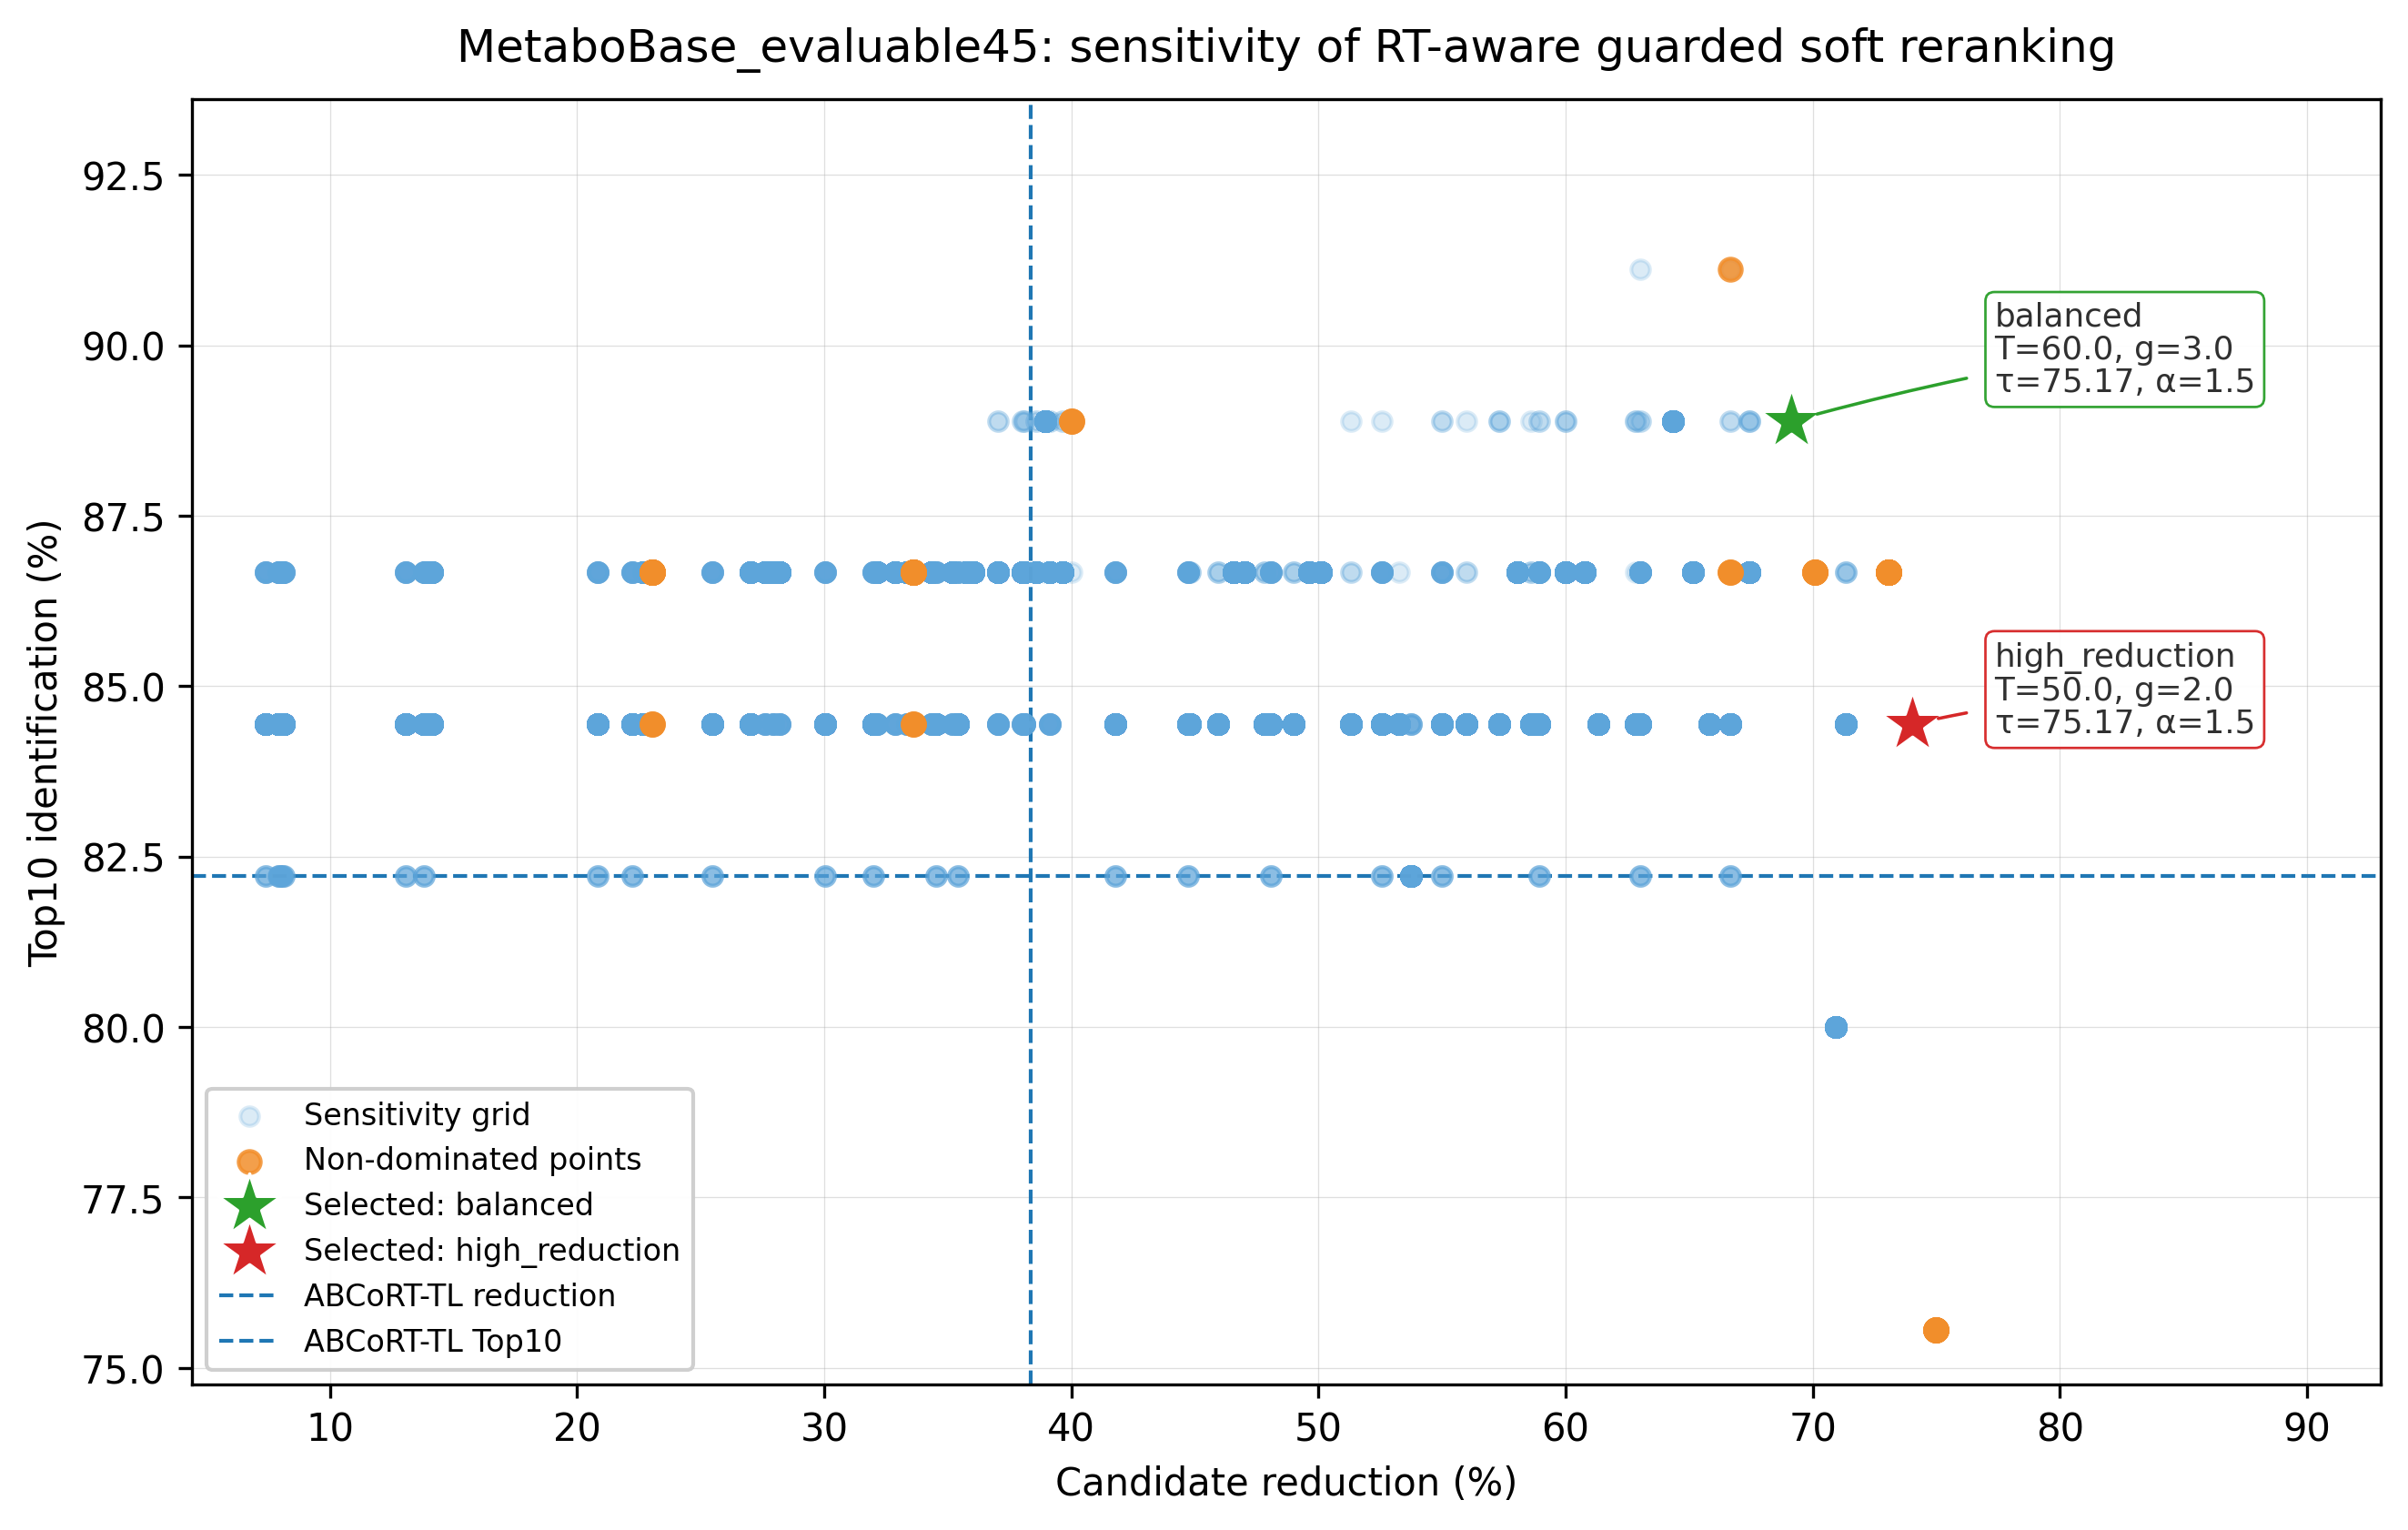
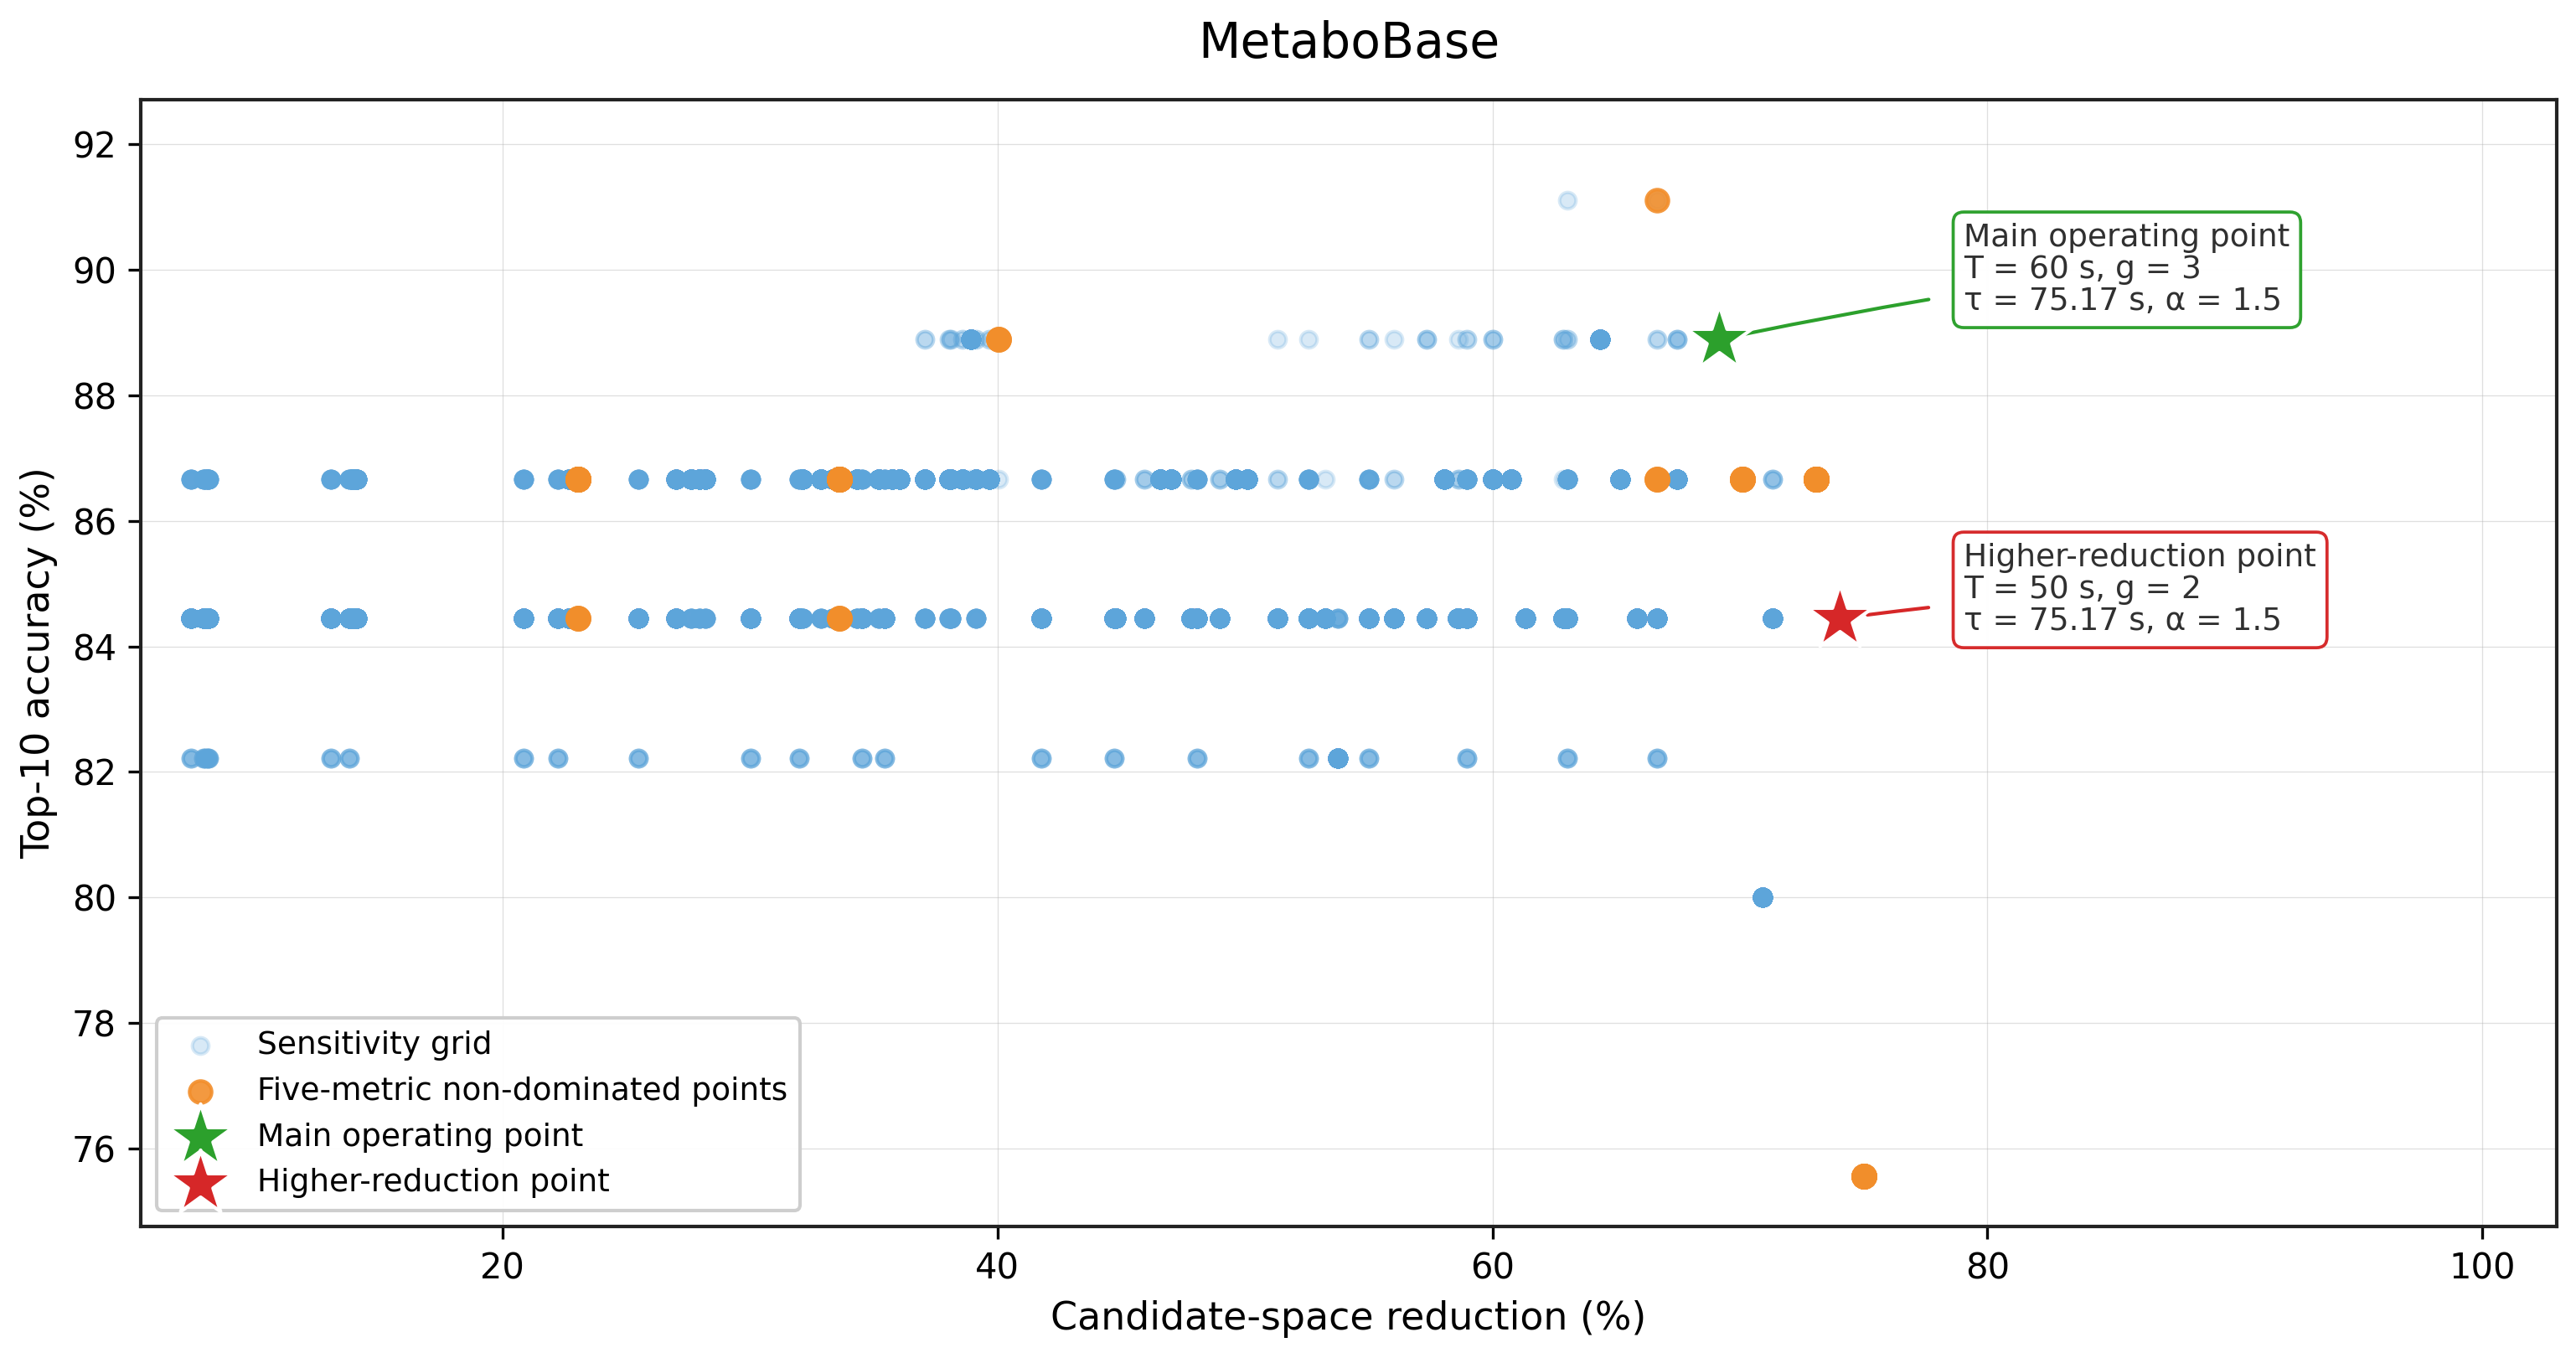
version22

diff --git a/diagnostics/make_filtering_parameter_sensitivity_audit.py b/diagnostics/make_filtering_parameter_sensitivity_audit.py
@@ -222,14 +222,55 @@ def make_tradeoff_rows(dataset_name, grid):
 
 def plot_tradeoff(dataset_name, grid, selected, abcort, out_dir):
     """
-    Plot candidate reduction versus Top-10 identification.
+    Publication-ready Figure S7 panel.
 
-    A dedicated empty annotation band is reserved on the right side of
-    the axes. Selected-point labels are placed in this band so that they
-    do not cover sensitivity-grid points, overlap each other, or extend
-    outside the figure boundary.
+    The x-axis is extended to create a dedicated annotation region inside
+    the black axes frame. Selected-point labels therefore do not cover the
+    stars or sensitivity-grid points and do not extend beyond the axes.
     """
-    fig, ax = plt.subplots(figsize=(8.9, 5.7))
+
+    title_map = {
+        "MetaboBase_evaluable45": "MetaboBase",
+        "RIKEN_exact85": "RIKEN-PlaSMA",
+        "MetaboBase": "MetaboBase",
+        "RIKEN-PlaSMA": "RIKEN-PlaSMA",
+    }
+
+    point_meta = {
+        "balanced": {
+            "legend": "Main operating point",
+            "label": "Main operating point",
+            "color": "#2CA02C",
+        },
+        "high_reduction": {
+            "legend": "Higher-reduction point",
+            "label": "Higher-reduction point",
+            "color": "#D62728",
+        },
+    }
+
+    # Vertical positions for annotation boxes.
+    label_y_map = {
+        "MetaboBase_evaluable45": {
+            "balanced": 90.0,
+            "high_reduction": 84.9,
+        },
+        "MetaboBase": {
+            "balanced": 90.0,
+            "high_reduction": 84.9,
+        },
+        "RIKEN_exact85": {
+            "balanced": 89.7,
+            "high_reduction": 87.3,
+        },
+        "RIKEN-PlaSMA": {
+            "balanced": 89.7,
+            "high_reduction": 87.3,
+        },
+    }
+
+    # Wider canvas so the enlarged black axes frame remains readable.
+    fig, ax = plt.subplots(figsize=(10.8, 5.9))
 
     # ------------------------------------------------------------
     # Sensitivity grid
@@ -237,26 +278,27 @@ def plot_tradeoff(dataset_name, grid, selected, abcort, out_dir):
     ax.scatter(
         grid["candidate_reduction_pct"],
         grid["top10_after_pct"],
-        s=24,
-        alpha=0.22,
+        s=22,
+        alpha=0.24,
         color="#5DA5DA",
         label="Sensitivity grid",
         zorder=2,
     )
 
+    # Five-metric non-dominated set
     pareto = grid[grid["is_pareto_5metric"]].copy()
     ax.scatter(
         pareto["candidate_reduction_pct"],
         pareto["top10_after_pct"],
-        s=34,
-        alpha=0.85,
+        s=40,
+        alpha=0.90,
         color="#F28E2B",
-        label="Non-dominated points",
+        label="Five-metric non-dominated points",
         zorder=3,
     )
 
     # ------------------------------------------------------------
-    # Data ranges and dedicated right-side annotation band
+    # Enlarge the black axes frame itself
     # ------------------------------------------------------------
     x_min = float(grid["candidate_reduction_pct"].min())
     x_max = float(grid["candidate_reduction_pct"].max())
@@ -265,37 +307,23 @@ def plot_tradeoff(dataset_name, grid, selected, abcort, out_dir):
 
     x_span = max(x_max - x_min, 1.0)
 
-    left_pad = max(3.0, 0.04 * x_span)
-    right_band = max(18.0, 0.25 * x_span)
+    left_pad = max(2.0, 0.03 * x_span)
 
-    ax.set_xlim(x_min - left_pad, x_max + right_band)
-    ax.set_ylim(y_min - 0.8, y_max + 2.5)
+    # Large dedicated annotation band inside the axes.
+    annotation_band = max(28.0, 0.38 * x_span)
 
-    # The labels begin strictly to the right of every sensitivity point.
-    label_x = x_max + max(2.2, 0.035 * x_span)
+    ax.set_xlim(
+        x_min - left_pad,
+        x_max + annotation_band,
+    )
 
-    # Vertical placement is dataset-specific to avoid label overlap.
-    label_y_offsets = {
-        "MetaboBase_evaluable45": {
-            "balanced": 1.05,
-            "high_reduction": 0.50,
-        },
-        "RIKEN_exact85": {
-            "balanced": 0.65,
-            "high_reduction": 0.45,
-        },
-    }
+    ax.set_ylim(
+        y_min - 0.8,
+        y_max + 1.6,
+    )
 
-    selected_styles = {
-        "balanced": {
-            "color": "#2CA02C",
-            "legend": "Selected: balanced",
-        },
-        "high_reduction": {
-            "color": "#D62728",
-            "legend": "Selected: high_reduction",
-        },
-    }
+    # Annotation boxes begin several units to the right of all data points.
+    label_x = x_max + max(4.0, 0.06 * x_span)
 
     # ------------------------------------------------------------
     # Selected operating points
@@ -306,110 +334,123 @@ def plot_tradeoff(dataset_name, grid, selected, abcort, out_dir):
         if len(sub) != 1:
             raise RuntimeError(
                 f"Selected point not uniquely found: "
-                f"{dataset_name}, {point_name}, {method_id}"
+                f"dataset={dataset_name}, point={point_name}, method={method_id}"
             )
 
         r = sub.iloc[0]
+        meta = point_meta[point_name]
 
         x0 = float(r["candidate_reduction_pct"])
         y0 = float(r["top10_after_pct"])
-        style = selected_styles[point_name]
 
+        # Keep the stars clearly visible above all other elements.
         ax.scatter(
             [x0],
             [y0],
-            s=300,
+            s=380,
             marker="*",
-            color=style["color"],
+            color=meta["color"],
             edgecolor="white",
-            linewidth=0.8,
-            label=style["legend"],
-            zorder=7,
+            linewidth=1.0,
+            label=meta["legend"],
+            zorder=15,
         )
 
-        y_offset = label_y_offsets.get(dataset_name, {}).get(
+        threshold = int(round(float(r["threshold_sec"])))
+        guard = int(round(float(r["guard_k"])))
+        tau = float(r["tau"])
+        alpha = float(r["alpha"])
+
+        label_text = (
+            f"{meta['label']}\n"
+            f"T = {threshold} s, g = {guard}\n"
+            f"τ = {tau:.2f} s, α = {alpha:.1f}"
+        )
+
+        text_y = label_y_map.get(dataset_name, {}).get(
             point_name,
-            0.50,
+            y0,
         )
-        text_y = y0 + y_offset
 
-        # Prevent the upper label from touching the title or top boundary.
-        text_y = min(text_y, ax.get_ylim()[1] - 0.75)
-
-        label = (
-            f"{point_name}\n"
-            f"T={r['threshold_sec']}, g={r['guard_k']}\n"
-            f"τ={r['tau']}, α={r['alpha']}"
-        )
+        text_y = min(text_y, ax.get_ylim()[1] - 0.55)
+        text_y = max(text_y, ax.get_ylim()[0] + 0.55)
 
         ax.annotate(
-            label,
+            label_text,
             xy=(x0, y0),
+            xycoords="data",
             xytext=(label_x, text_y),
             textcoords="data",
             ha="left",
             va="center",
-            fontsize=8.6,
+            fontsize=9.0,
             linespacing=1.08,
             color="#303030",
             bbox=dict(
-                boxstyle="round,pad=0.28",
+                boxstyle="round,pad=0.34",
                 facecolor="white",
-                edgecolor=style["color"],
-                linewidth=0.65,
-                alpha=0.97,
+                edgecolor=meta["color"],
+                linewidth=0.9,
+                alpha=0.98,
             ),
             arrowprops=dict(
                 arrowstyle="-",
-                color=style["color"],
-                linewidth=0.85,
-                shrinkA=5,
-                shrinkB=7,
-                connectionstyle="arc3,rad=0.03",
+                color=meta["color"],
+                linewidth=1.0,
+                shrinkA=7,
+                shrinkB=8,
+                connectionstyle="arc3,rad=0.02",
             ),
             annotation_clip=False,
-            zorder=8,
+            zorder=10,
         )
 
     # ------------------------------------------------------------
-    # ABCoRT-TL reference lines
+    # Formal labels
     # ------------------------------------------------------------
-    ax.axvline(
-        abcort["reduction"],
-        linestyle="--",
-        linewidth=1.0,
-        color="#1F77B4",
-        label="ABCoRT-TL reduction",
-        zorder=1,
-    )
-
-    ax.axhline(
-        abcort["top10"],
-        linestyle="--",
-        linewidth=1.0,
-        color="#1F77B4",
-        label="ABCoRT-TL Top10",
-        zorder=1,
-    )
-
-    ax.set_xlabel("Candidate reduction (%)")
-    ax.set_ylabel("Top10 identification (%)")
+    ax.set_xlabel("Candidate-space reduction (%)", fontsize=11)
+    ax.set_ylabel("Top-10 accuracy (%)", fontsize=11)
     ax.set_title(
-        f"{dataset_name}: sensitivity of RT-aware guarded soft reranking",
-        pad=10,
+        title_map.get(dataset_name, dataset_name),
+        fontsize=14,
+        pad=12,
     )
 
     ax.grid(True, linewidth=0.3, alpha=0.4)
     ax.set_axisbelow(True)
+    ax.tick_params(axis="both", labelsize=10)
 
-    # Legend remains in the left-bottom region, away from annotations.
+    # Make the enlarged black frame visually clear.
+    for spine in ax.spines.values():
+        spine.set_linewidth(1.0)
+        spine.set_color("#222222")
+
+    # Remove duplicate legend entries.
+    handles, labels = ax.get_legend_handles_labels()
+    unique_handles = []
+    unique_labels = []
+    seen = set()
+
+    for handle, label in zip(handles, labels):
+        if label not in seen:
+            seen.add(label)
+            unique_handles.append(handle)
+            unique_labels.append(label)
+
     ax.legend(
-        fontsize=8,
+        unique_handles,
+        unique_labels,
+        fontsize=9,
         loc="lower left",
-        framealpha=0.94,
+        framealpha=0.95,
     )
 
-    fig.tight_layout(pad=1.0)
+    fig.subplots_adjust(
+        left=0.085,
+        right=0.975,
+        bottom=0.14,
+        top=0.90,
+    )
 
     png = out_dir / f"{dataset_name}_sensitivity_tradeoff_reduction_vs_top10.png"
     pdf = out_dir / f"{dataset_name}_sensitivity_tradeoff_reduction_vs_top10.pdf"
@@ -418,11 +459,13 @@ def plot_tradeoff(dataset_name, grid, selected, abcort, out_dir):
         png,
         dpi=300,
         bbox_inches="tight",
+        pad_inches=0.08,
         facecolor="white",
     )
     fig.savefig(
         pdf,
         bbox_inches="tight",
+        pad_inches=0.08,
         facecolor="white",
     )
 